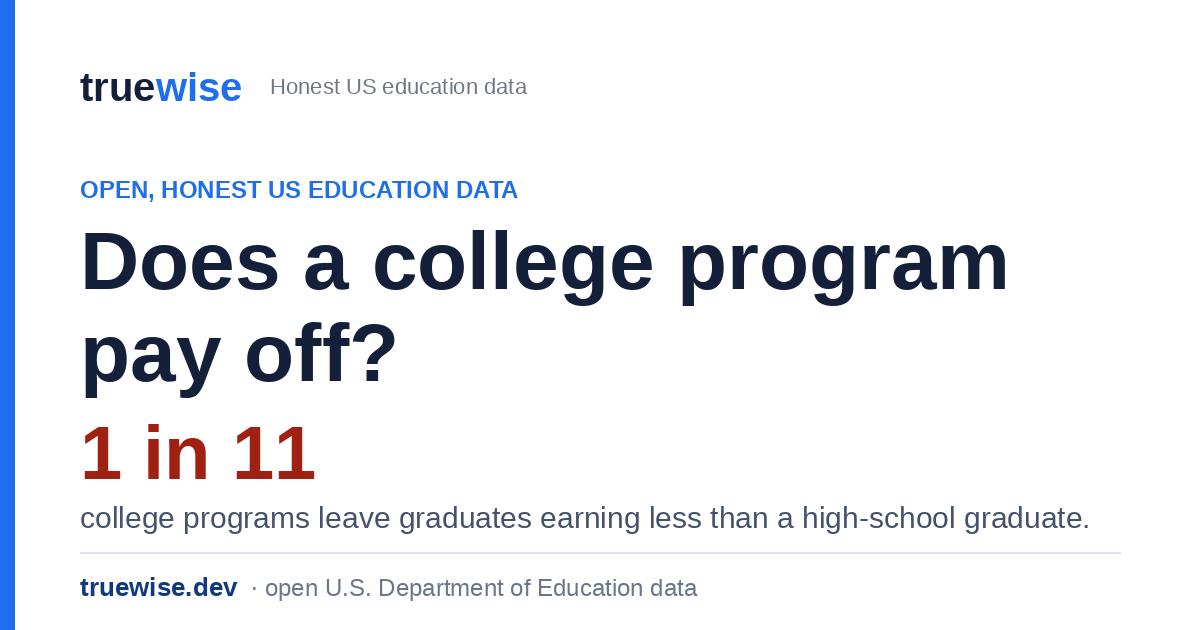
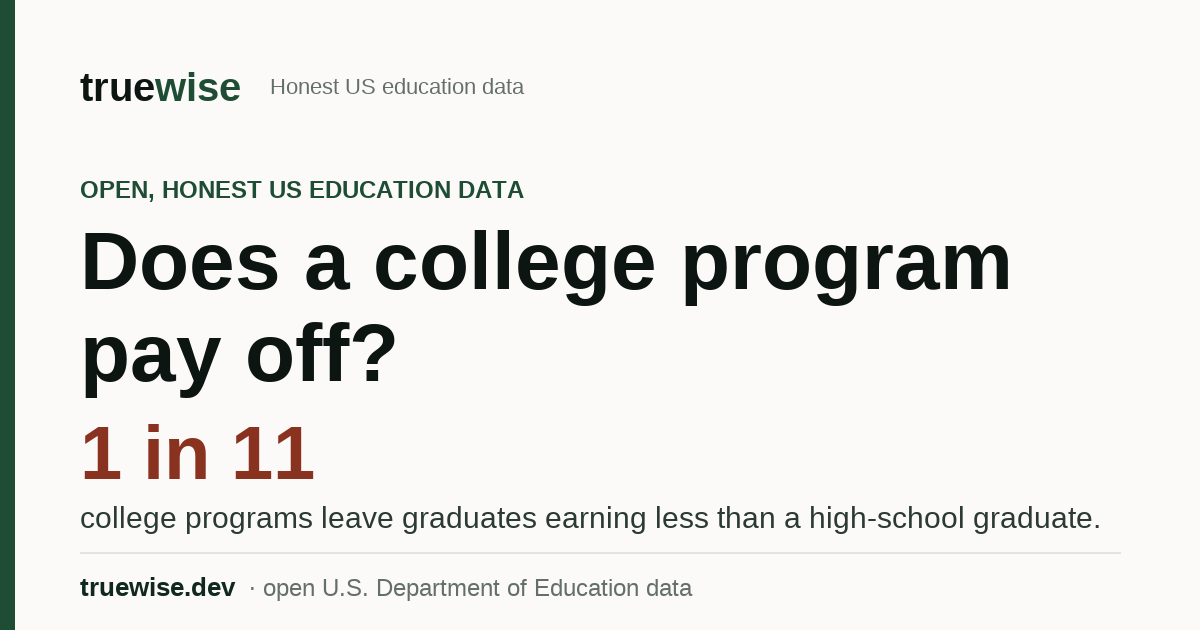
B2 review fixes: shared inner-page mobile gutter and three small corrections
From the forest-port preview review (2026-09-02).

Blocking: the shared `.pg` wrapper set `padding: 8px 0 64px`, which overrode the
`.wrap` gutter and left Majors and Lists content touching both viewport edges at
390px. `head()` now restores a horizontal gutter once the 860px box fills the
viewport, matching the homepage: 40px down to 520px, then 20px. Desktop is
untouched and stays centred at 860px with no inset.

Small corrections in the same pass:
* Homepage search placeholder shortened to "Search colleges..." so it is not
  clipped at 390px.
* `.live-card.flagship` (two classes) outranked the single-class mobile reset and
  kept a right-hand vertical rule after the modules stacked. Mobile module
  separators are now horizontal for all three.
* `.pg h1` mobile minimum normalised from 27.2px to 28px (clamp min 1.75rem).

Also includes the forest OG card regenerated from the B1 palette.

Generated pages were patched in place rather than regenerated wholesale; the
result was verified byte-for-byte against a fresh `build_majors_pages` and
`build_lists` run, then re-stamped by `version_assets`.

Guarded by two new tests in tests/test_ui_regressions.py. Full suite, ruff check,
ruff format and the token drift check are green.

diff --git a/site/index.html b/site/index.html
@@ -22,7 +22,7 @@
   <link rel="preconnect" href="https://fonts.gstatic.com" crossorigin />
   <link rel="stylesheet" href="https://fonts.googleapis.com/css2?family=Libre+Franklin:wght@400;500;600;700;800&family=IBM+Plex+Mono:wght@500&display=swap" media="print" onload="this.media='all'" />
   <noscript><link rel="stylesheet" href="https://fonts.googleapis.com/css2?family=Libre+Franklin:wght@400;500;600;700;800&family=IBM+Plex+Mono:wght@500&display=swap" /></noscript>
-  <link rel="stylesheet" href="styles.css" />
+  <link rel="stylesheet" href="styles.css?v=7bbd315987" />
   <script type="application/ld+json">
   {
     "@context": "https://schema.org",
@@ -118,7 +118,7 @@
           </p>
           <form class="hero-search" action="/value-check/" method="get" role="search">
             <svg width="20" height="20" viewBox="0 0 24 24" fill="none" stroke="#8b95a7" stroke-width="2" aria-hidden="true"><circle cx="11" cy="11" r="7"/><path d="M21 21l-4.3-4.3"/></svg>
-            <input name="q" type="search" placeholder="Search a college by name…" aria-label="Search a college" autocomplete="off" />
+            <input name="q" type="search" placeholder="Search colleges…" aria-label="Search a college" autocomplete="off" />
             <button type="submit">Search</button>
           </form>
           <p class="hero-hint">Try <b>Baylor</b>, <b>UCLA</b>, or your local community college.</p>
@@ -160,7 +160,7 @@
         <div>
           <!-- HOME_CHART_START -->
           <p class="dots-label">What graduates earn vs a high-school grad</p>
-          <figure class="home-dist"><svg viewBox="0 0 360 230" width="100%" role="img" aria-labelledby="distTitle distDesc" style="max-width:380px;height:auto"><title id="distTitle">How far college programs out-earn a high-school graduate</title><desc id="distDesc">Of 60,202 judged programs, 5,396 (about 9%) leave graduates earning less than a typical high-school graduate; the rest earn more, a median of 63% more. Bars, left to right: earn less 5,396; 0-25% more 7,483; 25-50% more 11,190; 50-75% more 10,551; 75-100% more 7,491; 100-150% more 9,404; 150%+ more 8,687.</desc><rect x="16.4" y="106" width="32.4" height="70" rx="2" fill="#ff8c7a" data-count="5396"/><text x="32.6" y="101" text-anchor="middle" font-size="10" font-weight="700" fill="#cdd9ee">9%</text><rect x="65.5" y="78" width="32.4" height="98" rx="2" fill="#8fb2ec" data-count="7483"/><text x="81.7" y="73" text-anchor="middle" font-size="10" font-weight="700" fill="#cdd9ee">12%</text><rect x="114.6" y="30" width="32.4" height="146" rx="2" fill="#8fb2ec" data-count="11190"/><text x="130.8" y="25" text-anchor="middle" font-size="10" font-weight="700" fill="#cdd9ee">19%</text><rect x="163.8" y="38" width="32.4" height="138" rx="2" fill="#8fb2ec" data-count="10551"/><text x="180.0" y="33" text-anchor="middle" font-size="10" font-weight="700" fill="#cdd9ee">18%</text><rect x="212.9" y="78" width="32.4" height="98" rx="2" fill="#8fb2ec" data-count="7491"/><text x="229.1" y="73" text-anchor="middle" font-size="10" font-weight="700" fill="#cdd9ee">12%</text><rect x="262.1" y="53" width="32.4" height="123" rx="2" fill="#8fb2ec" data-count="9404"/><text x="278.3" y="48" text-anchor="middle" font-size="10" font-weight="700" fill="#cdd9ee">16%</text><rect x="311.2" y="63" width="32.4" height="113" rx="2" fill="#8fb2ec" data-count="8687"/><text x="327.4" y="58" text-anchor="middle" font-size="10" font-weight="700" fill="#cdd9ee">14%</text><line x1="8" y1="176" x2="352" y2="176" stroke="rgba(255,255,255,.28)" stroke-width="1"/><line x1="57.1" y1="22" x2="57.1" y2="176" stroke="#ff8c7a" stroke-width="1" stroke-dasharray="3 3"/><text x="52.1" y="44" text-anchor="end" font-size="9.5" fill="#ff8c7a" font-weight="700">HS line</text><text x="32.6" y="194" text-anchor="middle" font-size="10" fill="#ff8c7a" font-weight="600">earn less</text><text x="204.6" y="194" text-anchor="middle" font-size="10" fill="#93a9cf">earn more than a high-school graduate &#8594;</text></svg></figure>
+          <figure class="home-dist"><svg viewBox="0 0 360 230" width="100%" role="img" aria-labelledby="distTitle distDesc" style="max-width:380px;height:auto"><title id="distTitle">How far college programs out-earn a high-school graduate</title><desc id="distDesc">Of 60,202 judged programs, 5,396 (about 9%) leave graduates earning less than a typical high-school graduate; the rest earn more, a median of 63% more. Bars, left to right: earn less 5,396; 0-25% more 7,483; 25-50% more 11,190; 50-75% more 10,551; 75-100% more 7,491; 100-150% more 9,404; 150%+ more 8,687.</desc><rect x="16.4" y="106" width="32.4" height="70" rx="2" fill="#d8cdb4" data-count="5396"/><text x="32.6" y="101" text-anchor="middle" font-size="10" font-weight="700" fill="#d8cdb4">9%</text><rect x="65.5" y="78" width="32.4" height="98" rx="2" fill="#a8c4b2" data-count="7483"/><text x="81.7" y="73" text-anchor="middle" font-size="10" font-weight="700" fill="#d8cdb4">12%</text><rect x="114.6" y="30" width="32.4" height="146" rx="2" fill="#a8c4b2" data-count="11190"/><text x="130.8" y="25" text-anchor="middle" font-size="10" font-weight="700" fill="#d8cdb4">19%</text><rect x="163.8" y="38" width="32.4" height="138" rx="2" fill="#a8c4b2" data-count="10551"/><text x="180.0" y="33" text-anchor="middle" font-size="10" font-weight="700" fill="#d8cdb4">18%</text><rect x="212.9" y="78" width="32.4" height="98" rx="2" fill="#a8c4b2" data-count="7491"/><text x="229.1" y="73" text-anchor="middle" font-size="10" font-weight="700" fill="#d8cdb4">12%</text><rect x="262.1" y="53" width="32.4" height="123" rx="2" fill="#a8c4b2" data-count="9404"/><text x="278.3" y="48" text-anchor="middle" font-size="10" font-weight="700" fill="#d8cdb4">16%</text><rect x="311.2" y="63" width="32.4" height="113" rx="2" fill="#a8c4b2" data-count="8687"/><text x="327.4" y="58" text-anchor="middle" font-size="10" font-weight="700" fill="#d8cdb4">14%</text><line x1="8" y1="176" x2="352" y2="176" stroke="rgba(255,255,255,.28)" stroke-width="1"/><line x1="57.1" y1="22" x2="57.1" y2="176" stroke="#d8cdb4" stroke-width="1" stroke-dasharray="3 3"/><text x="52.1" y="44" text-anchor="end" font-size="9.5" fill="#d8cdb4" font-weight="700">HS line</text><text x="32.6" y="194" text-anchor="middle" font-size="10" fill="#d8cdb4" font-weight="600">earn less</text><text x="204.6" y="194" text-anchor="middle" font-size="10" fill="#a8c4b2">earn more than a high-school graduate &#8594;</text></svg></figure>
           <!-- HOME_CHART_END -->
         </div>
         <div>

diff --git a/site/styles.css b/site/styles.css
@@ -253,8 +253,8 @@ a:hover { color: var(--brand-deep); }
   .hero .wrap { grid-template-columns: minmax(0, 1fr); gap: var(--s7); }
   .finding-band .wrap { grid-template-columns: minmax(0, 1fr); gap: var(--s7); }
   .live-modules { grid-template-columns: minmax(0, 1fr); }
-  .live-card { border-right: 0; border-bottom: 1px solid var(--line); padding: var(--s5) 0; }
-  .live-card:last-child { border-bottom: 0; }
+  .live-card, .live-card.flagship { border-right: 0; border-bottom: 1px solid var(--line); padding: var(--s5) 0; }
+  .live-card:last-child, .live-card.flagship:last-child { border-bottom: 0; }
   .profile-strip { grid-template-columns: minmax(0, 1fr); gap: var(--s4); }
   .panel.alt .wrap { grid-template-columns: minmax(0, 1fr); gap: var(--s7); }
   .brand-tagline { display: none; }

diff --git a/site/404.html b/site/404.html
@@ -11,7 +11,7 @@
   <link rel="preconnect" href="https://fonts.gstatic.com" crossorigin />
   <link rel="stylesheet" href="https://fonts.googleapis.com/css2?family=Libre+Franklin:wght@400;500;600;700;800&family=IBM+Plex+Mono:wght@500&display=swap" media="print" onload="this.media='all'" />
   <noscript><link rel="stylesheet" href="https://fonts.googleapis.com/css2?family=Libre+Franklin:wght@400;500;600;700;800&family=IBM+Plex+Mono:wght@500&display=swap" /></noscript>
-  <link rel="stylesheet" href="/styles.css" />
+  <link rel="stylesheet" href="/styles.css?v=7bbd315987" />
   <style>
     .nf { max-width: 640px; padding: 72px 0 80px; text-align: center; margin: 0 auto; }
     .nf .code { font-family: var(--mono); color: var(--ink-faint); letter-spacing: .1em; font-size: .9rem; }

diff --git a/site/k12/advanced-courses/index.html b/site/k12/advanced-courses/index.html
@@ -16,7 +16,7 @@
   <link rel="preconnect" href="https://fonts.gstatic.com" crossorigin />
   <link rel="stylesheet" href="https://fonts.googleapis.com/css2?family=Libre+Franklin:wght@400;500;600;700;800&family=IBM+Plex+Mono:wght@500&display=swap" media="print" onload="this.media='all'" />
   <noscript><link rel="stylesheet" href="https://fonts.googleapis.com/css2?family=Libre+Franklin:wght@400;500;600;700;800&family=IBM+Plex+Mono:wght@500&display=swap" /></noscript>
-  <link rel="stylesheet" href="/styles.css" />
+  <link rel="stylesheet" href="/styles.css?v=7bbd315987" />
   <style>
     /* Sits BELOW the sticky site header (64px + 1px border), not underneath it. Both bars are
        sticky, so without the offset the subnav slides under the header while scrolling. */

diff --git a/site/k12/compare/index.html b/site/k12/compare/index.html
@@ -16,7 +16,7 @@
   <link rel="preconnect" href="https://fonts.gstatic.com" crossorigin />
   <link rel="stylesheet" href="https://fonts.googleapis.com/css2?family=Libre+Franklin:wght@400;500;600;700;800&family=IBM+Plex+Mono:wght@500&display=swap" media="print" onload="this.media='all'" />
   <noscript><link rel="stylesheet" href="https://fonts.googleapis.com/css2?family=Libre+Franklin:wght@400;500;600;700;800&family=IBM+Plex+Mono:wght@500&display=swap" /></noscript>
-  <link rel="stylesheet" href="/styles.css" />
+  <link rel="stylesheet" href="/styles.css?v=7bbd315987" />
   <style>
     /* Sits BELOW the sticky site header (64px + 1px border), not underneath it. Both bars are
        sticky, so without the offset the subnav slides under the header while scrolling. */

diff --git a/site/k12/index.html b/site/k12/index.html
@@ -18,7 +18,7 @@
   <link rel="preconnect" href="https://fonts.gstatic.com" crossorigin />
   <link rel="stylesheet" href="https://fonts.googleapis.com/css2?family=Libre+Franklin:wght@400;500;600;700;800&family=IBM+Plex+Mono:wght@500&display=swap" media="print" onload="this.media='all'" />
   <noscript><link rel="stylesheet" href="https://fonts.googleapis.com/css2?family=Libre+Franklin:wght@400;500;600;700;800&family=IBM+Plex+Mono:wght@500&display=swap" /></noscript>
-  <link rel="stylesheet" href="/styles.css" />
+  <link rel="stylesheet" href="/styles.css?v=7bbd315987" />
   <style>
     /* Sits BELOW the sticky site header (64px + 1px border), not underneath it. Both bars are
        sticky, so without the offset the subnav slides under the header while scrolling. */

diff --git a/site/k12/rankings/index.html b/site/k12/rankings/index.html
@@ -16,7 +16,7 @@
   <link rel="preconnect" href="https://fonts.gstatic.com" crossorigin />
   <link rel="stylesheet" href="https://fonts.googleapis.com/css2?family=Libre+Franklin:wght@400;500;600;700;800&family=IBM+Plex+Mono:wght@500&display=swap" media="print" onload="this.media='all'" />
   <noscript><link rel="stylesheet" href="https://fonts.googleapis.com/css2?family=Libre+Franklin:wght@400;500;600;700;800&family=IBM+Plex+Mono:wght@500&display=swap" /></noscript>
-  <link rel="stylesheet" href="/styles.css" />
+  <link rel="stylesheet" href="/styles.css?v=7bbd315987" />
   <style>
     /* Sits BELOW the sticky site header (64px + 1px border), not underneath it. Both bars are
        sticky, so without the offset the subnav slides under the header while scrolling. */

diff --git a/site/methodology/index.html b/site/methodology/index.html
@@ -18,7 +18,7 @@
   <link rel="preconnect" href="https://fonts.gstatic.com" crossorigin />
   <link rel="stylesheet" href="https://fonts.googleapis.com/css2?family=Libre+Franklin:wght@400;500;600;700;800&family=IBM+Plex+Mono:wght@500&display=swap" media="print" onload="this.media='all'" />
   <noscript><link rel="stylesheet" href="https://fonts.googleapis.com/css2?family=Libre+Franklin:wght@400;500;600;700;800&family=IBM+Plex+Mono:wght@500&display=swap" /></noscript>
-  <link rel="stylesheet" href="/styles.css" />
+  <link rel="stylesheet" href="/styles.css?v=7bbd315987" />
   <style>
     .doc { max-width: 760px; padding: 40px 0 64px; }
     .doc h1 { font-size: clamp(1.9rem, 4vw, 2.6rem); letter-spacing: -0.03em; margin: 0 0 8px; }

diff --git a/site/value-check/index.html b/site/value-check/index.html
@@ -18,7 +18,7 @@
   <link rel="preconnect" href="https://fonts.gstatic.com" crossorigin />
   <link rel="stylesheet" href="https://fonts.googleapis.com/css2?family=Libre+Franklin:wght@400;500;600;700;800&family=IBM+Plex+Mono:wght@500&display=swap" media="print" onload="this.media='all'" />
   <noscript><link rel="stylesheet" href="https://fonts.googleapis.com/css2?family=Libre+Franklin:wght@400;500;600;700;800&family=IBM+Plex+Mono:wght@500&display=swap" /></noscript>
-  <link rel="stylesheet" href="/styles.css" />
+  <link rel="stylesheet" href="/styles.css?v=7bbd315987" />
   <style>
     .vc-search { padding: 48px 0 8px; }
     .vc-search h1 { font-size: clamp(1.9rem, 4vw, 2.8rem); letter-spacing: -0.03em; margin: 0 0 10px; }

diff --git a/site/careers/index.html b/site/careers/index.html
@@ -18,7 +18,7 @@
   <link rel="preconnect" href="https://fonts.gstatic.com" crossorigin />
   <link rel="stylesheet" href="https://fonts.googleapis.com/css2?family=Libre+Franklin:wght@400;500;600;700;800&family=IBM+Plex+Mono:wght@500&display=swap" media="print" onload="this.media='all'" />
   <noscript><link rel="stylesheet" href="https://fonts.googleapis.com/css2?family=Libre+Franklin:wght@400;500;600;700;800&family=IBM+Plex+Mono:wght@500&display=swap" /></noscript>
-  <link rel="stylesheet" href="/styles.css" />
+  <link rel="stylesheet" href="/styles.css?v=7bbd315987" />
   <style>
     .cr-head { padding: 44px 0 6px; }
     .cr-head h1 { font-size: clamp(1.9rem, 4vw, 2.8rem); letter-spacing: -0.03em; margin: 0 0 10px; }

diff --git a/site/compare/index.html b/site/compare/index.html
@@ -18,7 +18,7 @@
   <link rel="preconnect" href="https://fonts.gstatic.com" crossorigin />
   <link rel="stylesheet" href="https://fonts.googleapis.com/css2?family=Libre+Franklin:wght@400;500;600;700;800&family=IBM+Plex+Mono:wght@500&display=swap" media="print" onload="this.media='all'" />
   <noscript><link rel="stylesheet" href="https://fonts.googleapis.com/css2?family=Libre+Franklin:wght@400;500;600;700;800&family=IBM+Plex+Mono:wght@500&display=swap" /></noscript>
-  <link rel="stylesheet" href="/styles.css" />
+  <link rel="stylesheet" href="/styles.css?v=7bbd315987" />
   <style>
     .c-head { padding: 40px 0 4px; }
     .c-head h1 { font-size: clamp(1.9rem, 4vw, 2.6rem); letter-spacing: -0.03em; margin: 0 0 10px; }

diff --git a/site/about/index.html b/site/about/index.html
@@ -18,7 +18,7 @@
   <link rel="preconnect" href="https://fonts.gstatic.com" crossorigin />
   <link rel="stylesheet" href="https://fonts.googleapis.com/css2?family=Libre+Franklin:wght@400;500;600;700;800&family=IBM+Plex+Mono:wght@500&display=swap" media="print" onload="this.media='all'" />
   <noscript><link rel="stylesheet" href="https://fonts.googleapis.com/css2?family=Libre+Franklin:wght@400;500;600;700;800&family=IBM+Plex+Mono:wght@500&display=swap" /></noscript>
-  <link rel="stylesheet" href="/styles.css" />
+  <link rel="stylesheet" href="/styles.css?v=7bbd315987" />
   <script type="application/ld+json">
   {
     "@context": "https://schema.org",
